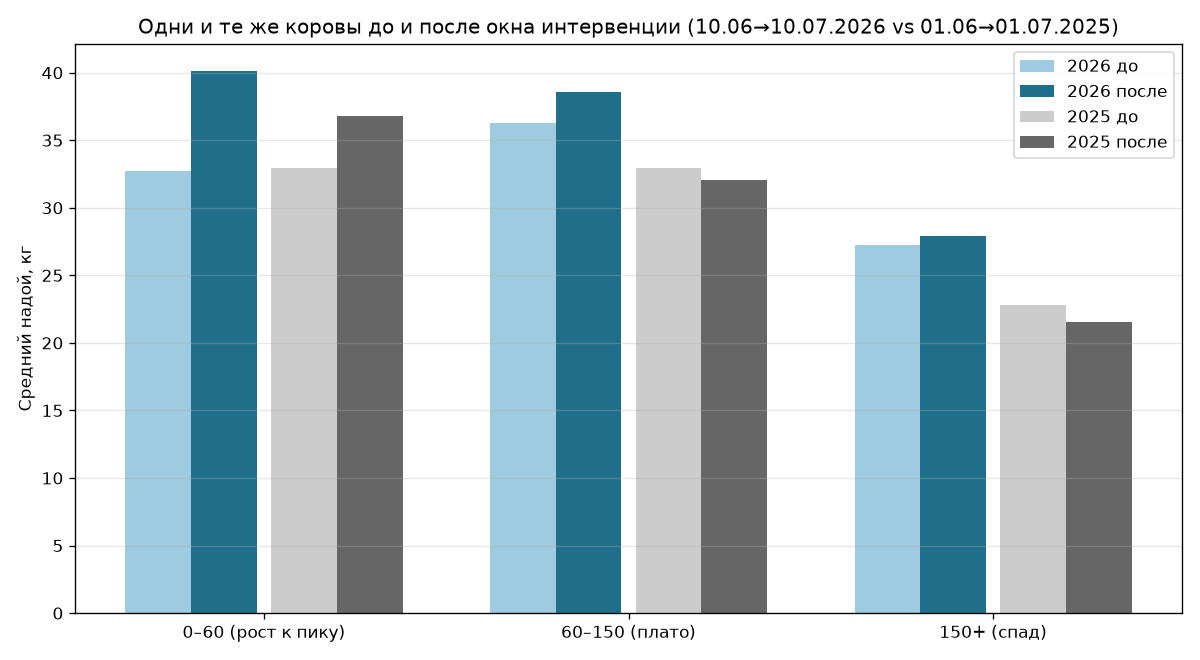
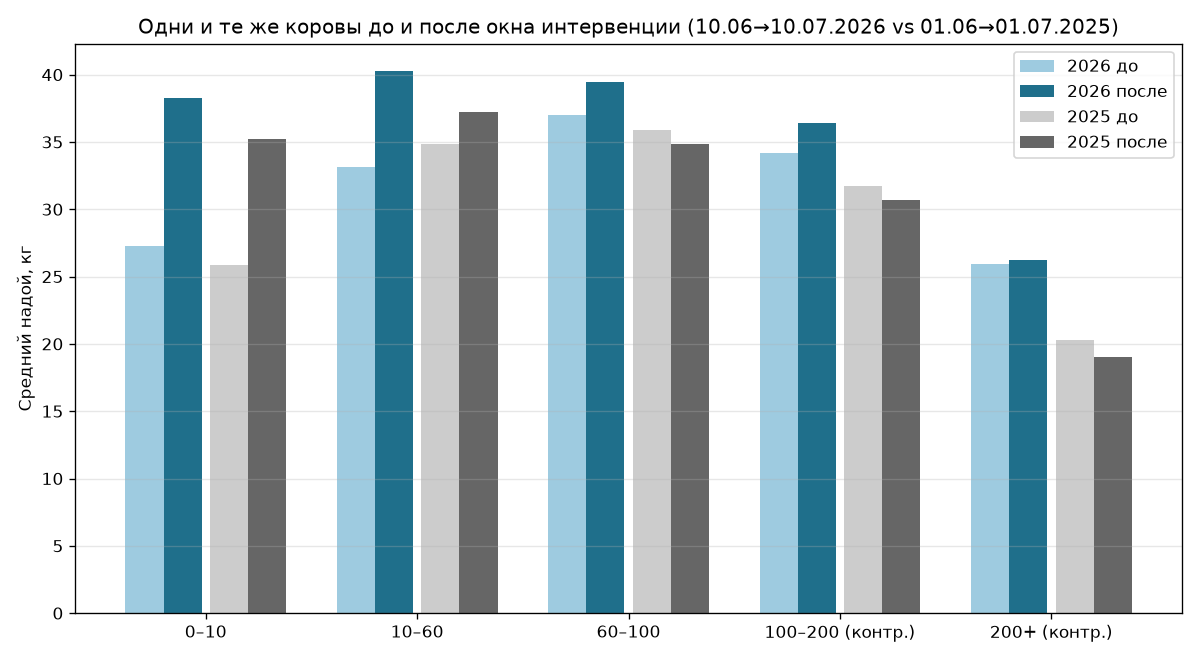
WP-118 Ф3: diff-in-diff — интервенция нацелена на 0-100 DIM, контроль 100+ внутри стада; чистый эффект +1.9 кг поверх сезона

diff --git a/cases/CASE-002-zencht-leninsky-dynamics/scripts/intervention_2026_06_10.py b/cases/CASE-002-zencht-leninsky-dynamics/scripts/intervention_2026_06_10.py
@@ -63,9 +63,11 @@ def pair_analysis(d0: date, d1: date):
 
 
 def band_stats(pairs):
-    bands = {"0–60 (рост к пику)": lambda d: d <= 60,
-             "60–150 (плато)": lambda d: 60 < d <= 150,
-             "150+ (спад)": lambda d: d > 150}
+    bands = {"0–10 (двухразовое кормление)": lambda d: d <= 10,
+             "10–60 (рост к пику)": lambda d: 10 < d <= 60,
+             "60–100 (лечённая, плато)": lambda d: 60 < d <= 100,
+             "100–200 (контроль)": lambda d: 100 < d <= 200,
+             "200+ (контроль, спад)": lambda d: d > 200}
     out = {}
     for name, f in bands.items():
         sel = [(p0, p1) for _, dim, p0, p1 in pairs if f(dim)]
@@ -150,6 +152,36 @@ lines = [
     "|---|---|---|---|---|---|---|",
     *fmt(stats25),
     "",
+    "## Diff-in-diff: лечённая группа (0–100) против контроля внутри стада (100+)",
+    "",
+    "Интервенция 10.06.2026 была точечной: рацион для группы 0–100 дней + технологические",
+    "меры (контроль остатков и СВ, двухразовое кормление 0–10 дней, чистка остатков сухостоя).",
+    "Коровы 100+ дней рацион 0–100 не получили — они внутренний контроль. Разница приростов",
+    "(лечённые минус контроль) сравнивается с той же разницей год назад — двойное различие",
+    "снимает и сезонность, и общий фон хозяйства.",
+    "",
+]
+
+def _did(stats, treated_names, control_names):
+    t = [stats[n] for n in treated_names if stats[n]]
+    c = [stats[n] for n in control_names if stats[n]]
+    dt = sum(x["delta"] * x["n"] for x in t) / sum(x["n"] for x in t)
+    dc = sum(x["delta"] * x["n"] for x in c) / sum(x["n"] for x in c)
+    return dt, dc
+
+TREATED = ["0–10 (двухразовое кормление)", "10–60 (рост к пику)", "60–100 (лечённая, плато)"]
+CONTROL = ["100–200 (контроль)", "200+ (контроль, спад)"]
+dt26, dc26 = _did(stats26, TREATED, CONTROL)
+dt25, dc25 = _did(stats25, TREATED, CONTROL)
+lines += [
+    "| Год | Δ лечённые 0–100 | Δ контроль 100+ | Разница (леч − контр) |",
+    "|---|---|---|---|",
+    f"| 2026 (интервенция 10.06) | {dt26:+.1f} | {dc26:+.1f} | **{dt26 - dc26:+.1f}** |",
+    f"| 2025 (без интервенции) | {dt25:+.1f} | {dc25:+.1f} | {dt25 - dc25:+.1f} |",
+    "",
+    f"**Двойное различие: ({dt26 - dc26:+.1f}) − ({dt25 - dc25:+.1f}) = {(dt26 - dc26) - (dt25 - dc25):+.1f} кг** — ",
+    "чистый эффект интервенции на целевую группу поверх сезона и фона.",
+    "",
     "## График",
     "",
     "![Парный before/after](../../charts/intervention_2026-06-10.png)",
@@ -207,14 +239,16 @@ lines += [
 
 # --- график: средние до/после по когортам, 2026 vs 2025 ---
 fig, ax = plt.subplots(figsize=(10, 5.5))
-names = ["0–60 (рост к пику)", "60–150 (плато)", "150+ (спад)"]
+names = ["0–10", "10–60", "60–100", "100–200 (контр.)", "200+ (контр.)"]
+full_names = ["0–10 (двухразовое кормление)", "10–60 (рост к пику)", "60–100 (лечённая, плато)",
+              "100–200 (контроль)", "200+ (контроль, спад)"]
 x = range(len(names))
 w = 0.18
 for i, (stats, year, color0, color1) in enumerate((
         (stats26, 2026, "#9ecbe0", "#1f6f8b"),
         (stats25, 2025, "#cccccc", "#666666"))):
-    a0 = [stats[n]["avg0"] if stats[n] else 0 for n in names]
-    a1 = [stats[n]["avg1"] if stats[n] else 0 for n in names]
+    a0 = [stats[n]["avg0"] if stats[n] else 0 for n in full_names]
+    a1 = [stats[n]["avg1"] if stats[n] else 0 for n in full_names]
     off = -0.2 + i * 0.4
     ax.bar([xi + off - w / 2 for xi in x], a0, width=w, color=color0, label=f"{year} до")
     ax.bar([xi + off + w / 2 for xi in x], a1, width=w, color=color1, label=f"{year} после")

diff --git a/cases/CASE-002-zencht-leninsky-dynamics/reports/intervention_2026-06-10.md b/cases/CASE-002-zencht-leninsky-dynamics/reports/intervention_2026-06-10.md
@@ -22,9 +22,11 @@ status: draft — на проверке пилота
 
 | Когорта (DIM на 10.06) | N | Надой 10.06 | Надой 10.07 | Δ средн. | Выросли | Упали |
 |---|---|---|---|---|---|---|
-| 0–60 (рост к пику) | 150 | 32.7 | 40.1 | +7.4 | 127 (85%) | 21 (14%) |
-| 60–150 (плато) | 150 | 36.3 | 38.6 | +2.3 | 104 (69%) | 45 (30%) |
-| 150+ (спад) | 441 | 27.2 | 27.9 | +0.7 | 253 (57%) | 167 (38%) |
+| 0–10 (двухразовое кормление) | 11 | 27.3 | 38.3 | +11.0 | 9 (82%) | 1 (9%) |
+| 10–60 (рост к пику) | 139 | 33.2 | 40.3 | +7.1 | 118 (85%) | 20 (14%) |
+| 60–100 (лечённая, плато) | 68 | 37.0 | 39.5 | +2.5 | 47 (69%) | 21 (31%) |
+| 100–200 (контроль) | 166 | 34.2 | 36.4 | +2.2 | 118 (71%) | 42 (25%) |
+| 200+ (контроль, спад) | 357 | 25.9 | 26.2 | +0.3 | 192 (54%) | 149 (42%) |
 | ИТОГО | 741 | 30.2 | 32.5 | +2.4 | 484 (65%) | 233 (31%) |
 
 ## Контроль сезонности 2025: 01.06 → 01.07 (30 дней, среза 10.06.2025 нет)
@@ -33,10 +35,28 @@ status: draft — на проверке пилота
 
 | Когорта (DIM на 01.06) | N | Надой 01.06 | Надой 01.07 | Δ средн. | Выросли | Упали |
 |---|---|---|---|---|---|---|
-| 0–60 (рост к пику) | 65 | 32.9 | 36.8 | +3.9 | 49 (75%) | 14 (22%) |
-| 60–150 (плато) | 125 | 33.0 | 32.0 | -0.9 | 37 (30%) | 69 (55%) |
-| 150+ (спад) | 443 | 22.8 | 21.6 | -1.3 | 106 (24%) | 195 (44%) |
+| 0–10 (двухразовое кормление) | 14 | 25.9 | 35.2 | +9.4 | 14 (100%) | 0 (0%) |
+| 10–60 (рост к пику) | 51 | 34.8 | 37.2 | +2.4 | 35 (69%) | 14 (27%) |
+| 60–100 (лечённая, плато) | 45 | 35.9 | 34.9 | -1.0 | 14 (31%) | 27 (60%) |
+| 100–200 (контроль) | 176 | 31.7 | 30.7 | -1.0 | 57 (32%) | 96 (55%) |
+| 200+ (контроль, спад) | 347 | 20.3 | 19.0 | -1.3 | 72 (21%) | 141 (41%) |
 | ИТОГО | 633 | 25.9 | 25.2 | -0.7 | 192 (30%) | 278 (44%) |
+
+## Diff-in-diff: лечённая группа (0–100) против контроля внутри стада (100+)
+
+Интервенция 10.06.2026 была точечной: рацион для группы 0–100 дней + технологические
+меры (контроль остатков и СВ, двухразовое кормление 0–10 дней, чистка остатков сухостоя).
+Коровы 100+ дней рацион 0–100 не получили — они внутренний контроль. Разница приростов
+(лечённые минус контроль) сравнивается с той же разницей год назад — двойное различие
+снимает и сезонность, и общий фон хозяйства.
+
+| Год | Δ лечённые 0–100 | Δ контроль 100+ | Разница (леч − контр) |
+|---|---|---|---|
+| 2026 (интервенция 10.06) | +5.9 | +0.9 | **+5.0** |
+| 2025 (без интервенции) | +1.9 | -1.2 | +3.1 |
+
+**Двойное различие: (+5.0) − (+3.1) = +1.9 кг** — 
+чистый эффект интервенции на целевую группу поверх сезона и фона.
 
 ## График
 
